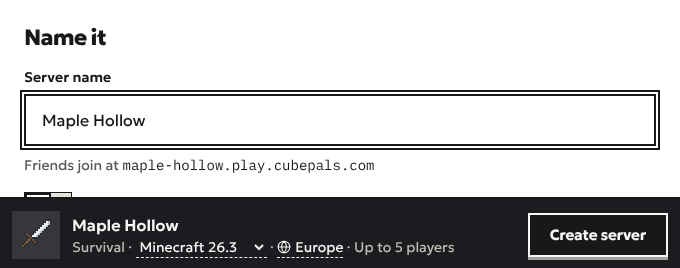
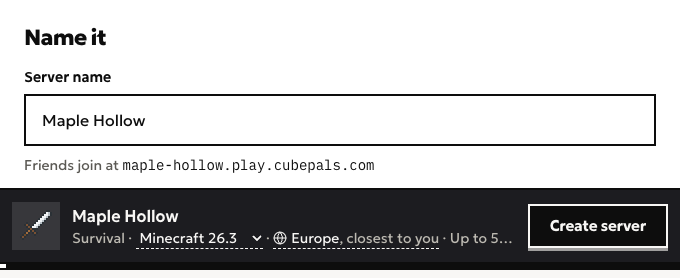
Bring the site's words and pictures up to date with the product
The guides pointed at create page places and World page buttons that moved or were renamed:
A modpack and Picking mods yourself now sit under More ways to play, a Manhunt round is Start
another round, and a Lifesteal season resets hearts. The create page's bar now says the region is
the closest, so the two pictures of it are retaken. The landing page's proofs said a join is held
25 s and a slow wake drops it; the edge's waiting room holds it up to 3 min. They also showed the
plain image tag without -alpine, offered extra hours on Free, and named an old blocklyd binary.
Pricing now says datapacks come with Plus.

diff --git a/apps/web/src/landing/sections/LedgerDemo.tsx b/apps/web/src/landing/sections/LedgerDemo.tsx
@@ -64,6 +64,10 @@ const COLUMNS: readonly (readonly { key: GroupKey; title: string }[])[] = [
 /** The release of the game image every server runs (apps/control/src/minecraft/runtime-spec.ts). */
 const IMAGE_RELEASE = '2026.9.1'
 
+/** Whether a choice runs the image's Alpine build: plain Minecraft on Java 21 or 25 (runtime-spec.ts). */
+const alpine = (play: Play, java: number): boolean =>
+  play.loader === 'vanilla' && play.mods.length === 0 && (java === 21 || java === 25)
+
 /** The Java a Minecraft release needs (apps/control/src/minecraft/versions.ts). */
 function javaFor(release: string): number {
   const [major = 0, minor = 0, patch = 0] = release.split('.').map((part) => Number.parseInt(part, 10))
@@ -144,8 +148,13 @@ function ledgerOf(play: Play, party: Party, typed: string, fit: Fit): Line[] {
     { id: 'mods', group: 'game', name: 'Mod installed', value: modded ? play.mods.join(', ') : null },
     { id: 'jars', group: 'game', name: 'Jars go in', value: type.jars },
     { id: 'java', group: 'game', name: 'Java', value: String(java) },
-    // The image's tag (runtime-spec.ts).
-    { id: 'image', group: 'game', name: 'Image tag', value: `${IMAGE_RELEASE}-java${java}` },
+    // The image's tag: plain Minecraft on Java 21 or 25 takes the Alpine build (imageFor, runtime-spec.ts).
+    {
+      id: 'image',
+      group: 'game',
+      name: 'Image tag',
+      value: `${IMAGE_RELEASE}-java${java}${alpine(play, java) ? '-alpine' : ''}`,
+    },
     // MODE, DIFFICULTY, HARDCORE, PVP, from the template (templates.ts; runtime-spec.ts).
     { id: 'mode', group: 'game', name: 'Game mode', value: play.gameMode },
     { id: 'difficulty', group: 'game', name: 'Difficulty', value: play.difficulty },
@@ -160,7 +169,7 @@ function ledgerOf(play: Play, party: Party, typed: string, fit: Fit): Line[] {
     // No seed is set unless one is given, and the create page gives none (servers/service.ts).
     { id: 'seed', group: 'game', name: 'Seed', value: 'random', said: true },
     // MAX_WORLD_SIZE (runtime-spec.ts).
-    { id: 'border', group: 'game', name: 'World border', value: `${plan.border} blocks` },
+    { id: 'border', group: 'game', name: 'World border', value: `${plan.border} blocks from the center` },
     // MAX_PLAYERS, from the group (apps/control/src/domain/server/size.ts).
     { id: 'players', group: 'game', name: 'Max players', value: String(party.maxPlayers) },
     // ONLINE_MODE: on for every new server (revision.ts; runtime-spec.ts).

diff --git a/apps/web/src/app/(public)/guides/minecraft-server-for-friends/page.tsx b/apps/web/src/app/(public)/guides/minecraft-server-for-friends/page.tsx
@@ -51,9 +51,10 @@ export default async function Guide() {
         </p>
         <ol>
           <li>
-            <strong>What to play.</strong> Survival, Creative, Hardcore, Smoother survival, or a modpack. Pick
-            one and the Minecraft version, the server software and its settings are chosen to match. There are
-            games too:{' '}
+            <strong>What to play.</strong> Survival, Creative or Hardcore, or open{' '}
+            <strong>More ways to play</strong> for the rest: Smoother survival, game modes, and modpacks. Pick
+            one and the Minecraft version, the server software and its settings are chosen to match. The game
+            modes include{' '}
             <GuideLink to="lifesteal-manhunt-skyblock-with-friends">
               Lifesteal, Manhunt and Skyblock
             </GuideLink>
@@ -81,8 +82,8 @@ export default async function Guide() {
         <Shot
           src={`${PICTURES}/name-it.png`}
           width={680}
-          height={268}
-          alt="The “Name it” question with the server name Maple Hollow typed in. Under it: Friends join at maple-hollow.play.cubepals.com. The bar below says Survival, Minecraft 26.3, Europe, and has the Create server button."
+          height={278}
+          alt="The “Name it” question with the server name Maple Hollow typed in. Under it: Friends join at maple-hollow.play.cubepals.com. The bar below says Survival, Minecraft 26.3, Europe, closest to you, and Up to 5 players, and has the Create server button."
           caption="The bar at the bottom says what’s being made, and holds the one button."
         />
       </Part>
@@ -99,7 +100,7 @@ export default async function Guide() {
           src={`${PICTURES}/address.png`}
           width={576}
           height={202}
-          alt="A server’s page showing it Online, its address maple-hollow.play.cubepals.com with a Copy address button, and the line: In Minecraft: Java Edition 26.3, open Multiplayer, then Add Server, and paste it."
+          alt="A server’s page showing it Online, its address maple-hollow.play.cubepals.com with a Copy address button, and the line: In Minecraft: Java Edition 26.3, open Multiplayer, then Add Server, and paste it. Consoles and phones can’t join."
         />
         <p>
           For friends who are new to it,{' '}

diff --git a/apps/web/src/landing/sections/Address.tsx b/apps/web/src/landing/sections/Address.tsx
@@ -31,9 +31,8 @@ export function Address({ plans = [], bare }: { plans?: PublicPlan[]; bare?: boo
         label="A server list row for an example address, the wire a refresh or a join travels to whichever end answers, and the handshake the edge reads"
         note={
           <>
-            Sped up, with an example address. It shows a server that is up within the hold. On the staging
-            machines in September 2026 a wake took longer than <span className="bl-mono">25 s</span>, so the
-            first join was dropped with no message and the player had to join again.
+            Sped up, with an example address. It shows a server that is up within the hold. When one isn’t,
+            the edge turns the join away and says why: “Still starting · join again in a moment”.
           </>
         }
       >
@@ -44,8 +43,8 @@ export function Address({ plans = [], bare }: { plans?: PublicPlan[]; bare?: boo
         items={[
           // ROUTES_POLL_MS, default 1000. apps/edge/agent.ts
           { name: 'The edge re-reads its routes', value: 'every 1000 ms' },
-          // wakeWaitMs 25_000. apps/control/src/main.node.ts
-          { name: 'A join is held for a wake', value: 'up to 25 s' },
+          // WAKE_HOLD_MS, default 180000: the edge's waiting room. apps/edge/agent.ts
+          { name: 'A join is held for a wake', value: 'up to 3 min' },
           // A ping is answered by the edge's notice and never reported as a session.
           // apps/edge/agent.ts, apps/edge/notice.ts
           { name: 'A list refresh wakes a server, or keeps one awake', value: 'never', said: true },

diff --git a/apps/web/src/landing/sections/AddressDemo.tsx b/apps/web/src/landing/sections/AddressDemo.tsx
@@ -50,8 +50,8 @@ const PINGING = 'Pinging...'
 const SLEEPING_NOTICE = '127.0.0.1:25563'
 /** Where a restarting server's name leads. apps/edge/agent.ts */
 const RESTARTING_NOTICE = '127.0.0.1:25564'
-/** How long a join is held for a wake: wakeWaitMs 25_000. apps/control/src/main.node.ts */
-const HOLD = '25 s'
+/** How long the edge's waiting room holds a join for a wake: WAKE_HOLD_MS 180000. apps/edge/agent.ts */
+const HOLD = '3 min'
 
 /** The protocol version the edge's own status request speaks, a 1.21 client's. apps/edge/notice.ts */
 const PROTOCOL = 767
@@ -222,7 +222,9 @@ const SAID = {
   through: 'The held join got in. From here the server checks the player itself.',
   waits:
     'The edge holds the join while the control plane waits for the restart. It never starts the server twice.',
-  turned: <>Still restarting. The edge’s own notice turns the join away: {quote(JOIN_RESTARTING)}</>,
+  turned: (
+    <>Still restarting when the hold ran out, so the edge turns the join away: {quote(JOIN_RESTARTING)}</>
+  ),
   // The whole of a held join in one go, for someone who asked for less motion and sees no steps.
   wokeWhole: (
     <>
@@ -234,7 +236,7 @@ const SAID = {
   turnedWhole: (
     <>
       The edge held the join while the restart was waited for, and never started the server twice. Still
-      restarting, so its own notice turned the join away: {quote(JOIN_RESTARTING)}
+      restarting when the hold ran out, so the edge turned the join away: {quote(JOIN_RESTARTING)}
     </>
   ),
 } satisfies Record<string, ReactNode>

diff --git a/apps/web/src/landing/sections/SleepDemo.tsx b/apps/web/src/landing/sections/SleepDemo.tsx
@@ -179,11 +179,11 @@ function monthSaid(month: number, plan: PublicPlan, plans: readonly PublicPlan[]
   const included = plan.includedHours
   if (month === 0) return `Nothing ran, so none of the ${included} hours on ${plan.name} were used.`
   if (month > included) {
-    // A bigger plan that would hold this month, said the way the account page says it.
+    // A bigger plan that would hold this month, said the way the account page says it. Only a paid
+    // plan allows extra hours (mayBuyMore, entitlements.ts), as the pricing page says.
     const roomier = plans.find((each) => each.includedHours > included && each.includedHours >= month)
-    return `More than the ${included} hours on ${plan.name}. When they run out, the server sleeps until the 1st, when the hours start again, unless you allow extra hours, up to a limit you set.${
-      roomier ? ` ${roomier.name} has ${roomier.includedHours} hours a month.` : ''
-    }`
+    const extra = plan.monthlyPriceCents > 0 ? ', unless you allow extra hours, up to a limit you set' : ''
+    return `More than the ${included} hours on ${plan.name}. When they run out, the server sleeps until the 1st, when the hours start again${extra}.${roomier ? ` ${roomier.name} has ${roomier.includedHours} hours a month.` : ''}`
   }
   // The week counts an hour awake as one of the plan's hours. On a plan that runs large servers
   // that isn't the whole of it, and the note says so.

diff --git a/apps/web/src/app/(public)/guides/play-a-modpack-with-friends/page.tsx b/apps/web/src/app/(public)/guides/play-a-modpack-with-friends/page.tsx
@@ -50,9 +50,10 @@ export default async function Guide() {
 
       <Part id="picking" title="Picking a pack">
         <p>
-          On the create page, under <strong>What to play</strong>, choose <strong>A modpack</strong>. Search
-          Modrinth by name, or paste a link to a pack, or pick from the ones most people are playing. Cubepals
-          installs the whole thing: mods, settings and all.
+          On the create page, under <strong>What to play</strong>, open <strong>More ways to play</strong> and
+          choose <strong>A modpack</strong>, under Modpacks. Search Modrinth by name, or paste a link to a
+          pack, or pick from the ones most people are playing. Cubepals installs the whole thing: mods,
+          settings and all.
         </p>
         <Shot
           src={`${PICTURES}/search.png`}
@@ -132,7 +133,7 @@ export default async function Guide() {
           {
             question: 'Can I add mods myself?',
             answer:
-              'Yes. Under What to play, “Picking mods yourself?” starts a server on a mod loader, and the server’s Mods page adds mods to it.',
+              'Yes. Under What to play, More ways to play ends with “Picking mods yourself?”, which starts a server on a mod loader, and the server’s Mods page adds mods to it.',
           },
           {
             question: 'Where do I start?',

diff --git a/apps/web/src/app/(public)/guides/lifesteal-manhunt-skyblock-with-friends/page.tsx b/apps/web/src/app/(public)/guides/lifesteal-manhunt-skyblock-with-friends/page.tsx
@@ -68,7 +68,11 @@ export default async function Guide() {
             <code>/revive</code> and their name. They come back with one heart.
           </li>
         </ul>
-        <p>Hearts belong to players, not to the world, so a new world doesn’t give them back.</p>
+        <p>
+          Hearts belong to players, not to the world. To start everyone over, open the server’s{' '}
+          <strong>World</strong> page and press <strong>Start a new season</strong>: everyone goes back to 10
+          hearts on a fresh world, and last season’s world is kept in Backups.
+        </p>
       </Part>
 
       <Part id="manhunt" title="Manhunt">
@@ -109,8 +113,9 @@ export default async function Guide() {
           </li>
         </ol>
         <p>
-          For another round on fresh ground, open the server’s <strong>World</strong> page and use{' '}
-          <strong>Start a new world</strong>. The old one stays, and you pick the runner and hunters again.
+          For another round on fresh ground, open the server’s <strong>World</strong> page and press{' '}
+          <strong>Start another round</strong>. The old world stays under Other worlds, and you pick the
+          runner and hunters again.
         </p>
       </Part>
 

diff --git a/apps/web/src/landing/sections/MachineDemo.tsx b/apps/web/src/landing/sections/MachineDemo.tsx
@@ -102,9 +102,9 @@ const HEAP_SHARE = { plain: 0.75, modded: 0.65 }
 /** From this much memory up, at least this much stays outside the heap. runtime-spec.ts */
 const KEPT_OUTSIDE_FROM_MB = 3072
 const KEPT_OUTSIDE_MB = 1024
-/** The image every server runs, pinned to one release; its tag ends in the Java. runtime-spec.ts */
-const IMAGE = 'itzg/minecraft-server:2026.9.1-java'
-
+/** The pinned image: its tag ends in the Java, and plain Minecraft's in Alpine (imageFor, runtime-spec.ts). */
+const imageOf = (p: (typeof PLAY)[Play]) =>
+  `itzg/minecraft-server:2026.9.1-java${p.java}${p.modded ? '' : '-alpine'}`
 interface Machine {
   gb: number
   memoryMb: number
@@ -126,7 +126,7 @@ function machineFor(play: Play, party: Party): Machine {
   const heapMb = memoryMb >= KEPT_OUTSIDE_FROM_MB ? Math.min(share, memoryMb - KEPT_OUTSIDE_MB) : share
   // Dedicated cores by memory. apps/control/src/infra/fly/machine-config.ts
   const cores = memoryMb <= 3072 ? 1 : memoryMb <= 4096 ? 2 : 4
-  return { gb, memoryMb, heapMb, floored: heapMb < share, cores, image: `${IMAGE}${played.java}` }
+  return { gb, memoryMb, heapMb, floored: heapMb < share, cores, image: imageOf(played) }
 }
 
 /**

diff --git a/apps/web/src/landing/sections/Runtimes.tsx b/apps/web/src/landing/sections/Runtimes.tsx
@@ -35,7 +35,7 @@ export function Runtimes({ bare }: { bare?: boolean } = {}) {
 
       <Demo
         label="The rule ladder: a new server drops through the placement rules, and the decision is recorded"
-        note="A simulation of the placement policy, slowed down to read; it has not run in production. The rules, the servers and their ids are examples, and the two clouds go by cloud-a and cloud-b in place of their names. Every verdict is the code’s own sentence, and each bucket is the number the code gives that rule and that server. Here only the default can be full; in the policy, any runtime can."
+        note="A simulation of the placement policy, slowed down to read. Production runs servers on one cloud, with no rules, so nothing like this has happened there yet. The rules, the servers and their ids are examples, and the two clouds go by cloud-a and cloud-b in place of their names. Every verdict is the code’s own sentence, and each bucket is the number the code gives that rule and that server. Here only the default can be full; in the policy, any runtime can."
       >
         <RuntimesDemo />
       </Demo>

diff --git a/apps/web/src/app/(public)/guides.ts b/apps/web/src/app/(public)/guides.ts
@@ -39,7 +39,7 @@ export const GUIDES: readonly Guide[] = [
     description:
       'Make a Minecraft server for you and your friends in three decisions: what to play, who’s playing, and a name. Free to start. For Java Edition.',
     published: '2026-10-10',
-    modified: '2026-10-10',
+    modified: '2026-10-11',
     approved: true,
   },
   {
@@ -93,7 +93,7 @@ export const GUIDES: readonly Guide[] = [
     description:
       'Play a Minecraft modpack with your friends without installing a server: pick a pack from Modrinth and Cubepals installs all of it. With Plus.',
     published: '2026-10-10',
-    modified: '2026-10-10',
+    modified: '2026-10-11',
     approved: true,
   },
   {
@@ -102,7 +102,7 @@ export const GUIDES: readonly Guide[] = [
     description:
       'Cubepals runs servers in Frankfurt for friends in the UK, Ireland, the Netherlands, the Nordics and the rest of Europe, and in Virginia for the US.',
     published: '2026-10-10',
-    modified: '2026-10-10',
+    modified: '2026-10-11',
     approved: true,
   },
   {

diff --git a/apps/web/src/landing/sections/Sleep.tsx b/apps/web/src/landing/sections/Sleep.tsx
@@ -54,7 +54,7 @@ export function Sleep({ plans, bare }: { plans: PublicPlan[]; bare?: boolean }) 
 
       <Demo
         label="A week of evenings to fill with play, what that week keeps a server awake for beside a server that never sleeps, and then the days nobody plays: a machine, a disk and a stored copy, and a join on any day"
-        note="An example week, with a month taken as a twelfth of a year. The days, the rest and the wake are sped up, and nothing is really started. It shows a join that gets in as the server comes up; on the staging machines in September 2026 a wake outlasted the join that asked for it, so that join was dropped with no message and the friend joined again."
+        note="An example week, with a month taken as a twelfth of a year. The days, the rest and the wake are sped up, and nothing is really started. It shows a join that gets in as the server comes up: the edge holds a join for up to 3 minutes while it wakes."
       >
         <SleepDemo plans={plans} />
       </Demo>

diff --git a/apps/web/src/landing/sections/Fleet.tsx b/apps/web/src/landing/sections/Fleet.tsx
@@ -49,8 +49,9 @@ export function Fleet({ bare }: { bare?: boolean } = {}) {
             name: 'What blocklyd is',
             value: (
               <>
-                blocklyd-x86_64-linux-musl, 8.3 MB
-                {/* cubepals/blocklyd README.md; docs/fleet-operations.md; docs/fleet.md */}
+                blocklyd, 8.9 MB
+                {/* The pinned release's binary (bun scripts/blocklyd.ts version; its GitHub Release
+                    asset, 8,889,088 bytes at 0.3.0). cubepals/blocklyd README.md; docs/fleet.md */}
                 <Why>
                   Built as one static binary. It runs each world in a locked-down container, which shares the
                   machine’s kernel, and it never chooses where anything runs.
